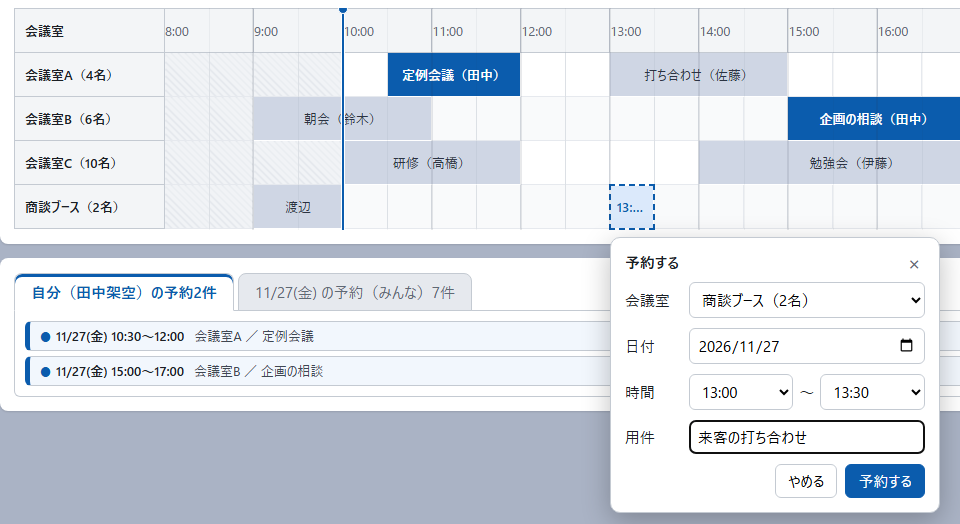
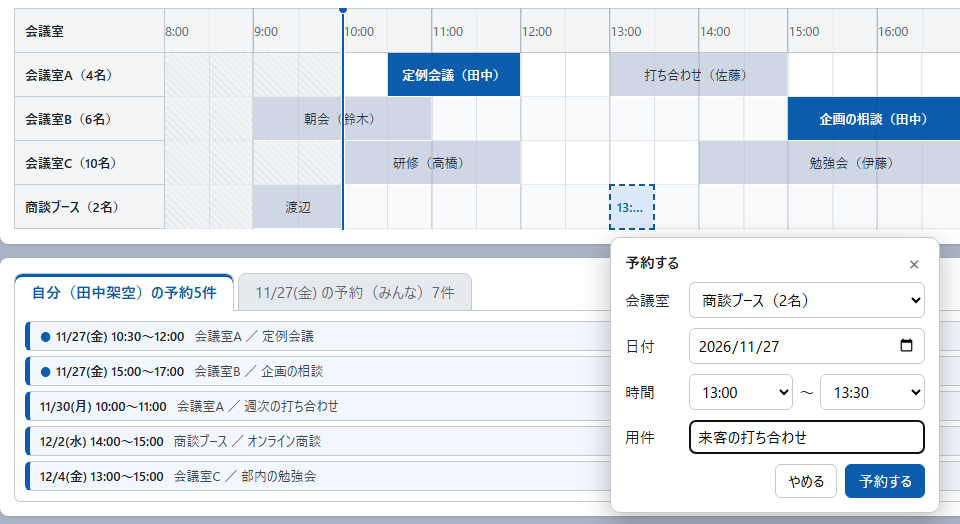
予約の小窓の写真に先の日の予約を入れて、今日の ● が分かるようにする（#204）

Changed region(s): [[0.0, 0.7328, 1.0, 1.0], [0.1875, 0.5496, 0.2188, 0.5802]]

diff --git a/docs/progress.md b/docs/progress.md
@@ -55,3 +55,4 @@
 - 2026-11-26: 就職先の人事の方向けに、プロの視点で添削して直した（#198）。README に「自分が担当したこと」を足し、起動方法とテストは docs/setup.md に移した。再開メモへのリンクを外し、古い記述を直し、写真を文字が読める大きさに切り出して撮り直した。API のテスト 56 件・画面 126 件の成功を、この日に実行して確かめた。「AI と進めて学んだこと」（よかった点・反省点・これから続けること）も README に載せた
 - 2026-11-26: README の先頭に「30 秒で分かるまとめ」を足した。忙しい人事の方には分かりやすさが大事、というユーザーの考えから（#200）
 - 2026-11-26: README の見出し「30 秒で分かるまとめ」を「概要」にした。呼びかけが強い、というユーザーの感想から（#202）
+- 2026-11-26: 予約の小窓の写真に先の日の架空の予約を入れて撮り直し、今日の予約だけに青い ● が付くことが分かるようにした。README に ● の説明を 1 文足した（#204）
